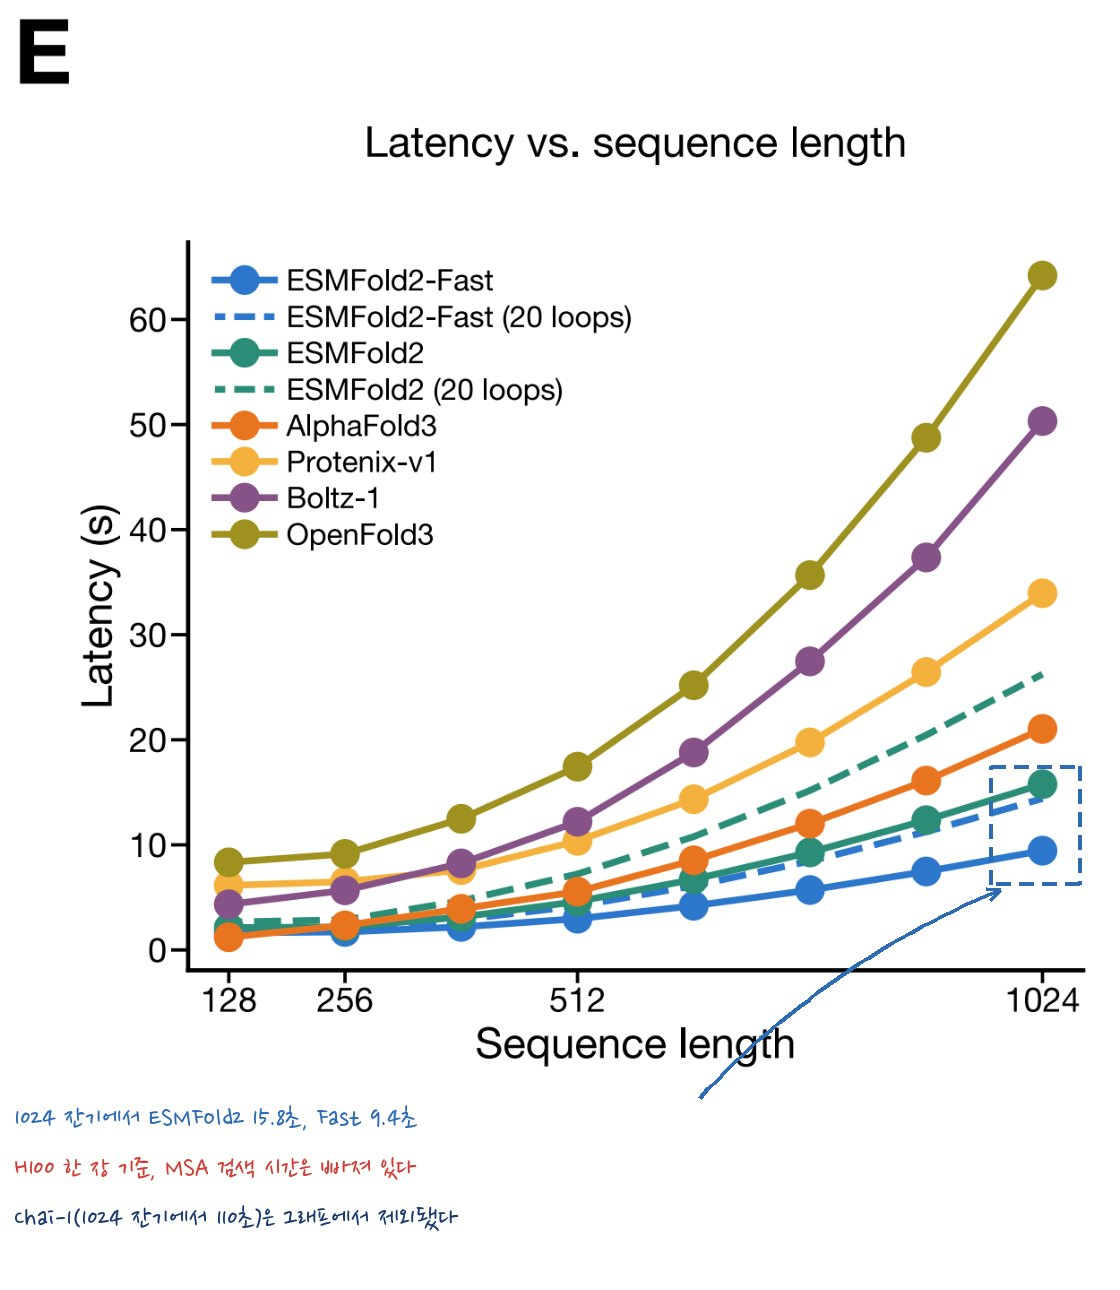
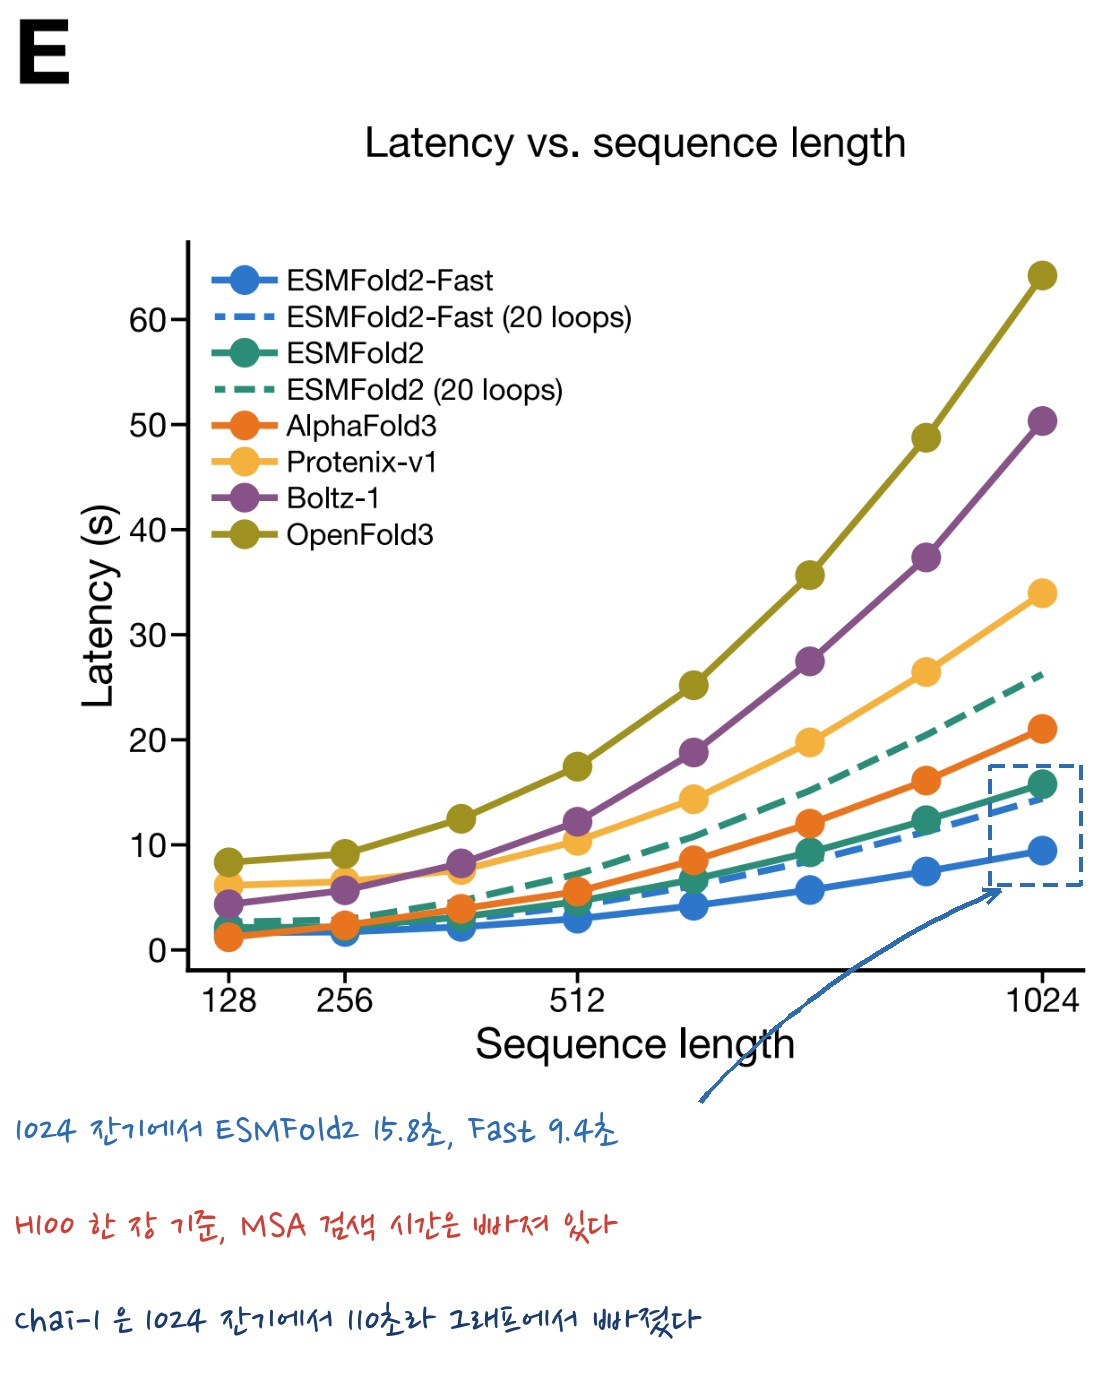
Make the handwritten memos readable on the composite figures
Four figures were annotated on a large composite canvas and then saved at a
smaller width, so the handwriting shrank twice -- once on save, once again
when the page scaled the figure down. On screen the memos ended up at 12-17 px
while the rest of the post sits at 20-23 px.

Measured and redrawn so every memo lands near 26 px at the width the page
actually shows, with the files kept at roughly twice the display width so they
stay sharp on a HiDPI screen:

- esmc-esmfold2 Fig 2A: 12.7 -> 26.1 px (file now 2400 px wide)
- esmc-esmfold2 Fig 1B/1C: 14.1 -> 26.0 px (file 2240 px)
- esmc-esmfold2 Fig 2E: 17.2 -> 24.0 px
- esmc-sae Fig 4E (CAMK1 + families): 11.7 -> 26.1 px (file 2240 px)

Also on Fig 2A: the middle dot in "pLDDT · PAE" was dropped by the handwriting
font and left a gap, so that note is reworded.

Claude-Session: https://claude.ai/code/session_01WeuVKTz2XfxiKwtoJS4U2K

diff --git a/content/posts/_drafts/esmc-esmfold2/tools/annot_big.py b/content/posts/_drafts/esmc-esmfold2/tools/annot_big.py
@@ -1,0 +1,95 @@
+"""Redraw the memos on Fig 1B/1C, 2A and 2E at a size that survives downscaling.
+
+Rule used here: the handwriting should land at about 26 px once the page
+displays the figure, and the file should be roughly twice the display width so
+it stays sharp on a HiDPI screen.
+"""
+import sys
+sys.path.insert(0, "/tmp/gen")
+from ink import *
+
+S = "/tmp/pdf2/"
+P = "/home/claude/eden-repo/content/posts/2026-11-12-esmc-esmfold2/imgs/"
+
+
+def room(im, bottom):
+    c = Image.new("RGB", (im.width, im.height + bottom), "white")
+    c.paste(im, (0, 0))
+    return c
+
+
+# ================================================================ Fig 2A
+# canvas 3008 wide, saved at 2400, shown at 1120 -> memo 70 px here = 26 px on screen
+im = load(S + "f2a_stitched.png")
+H0 = im.height
+im = room(im, 560)
+
+box(im, 1, (10, 230, 360, 480), pad=8, fill=True)
+box(im, 2, (420, 230, 730, 540), pad=8, fill=True)
+box(im, 3, (1745, 285, 1995, 455), pad=8, fill=True)
+box(im, 3, (1180, 120, 2160, 180), pad=5, dash=True)
+box(im, 4, (2460, 95, 2865, 290), pad=8, fill=True)
+
+marker(im, 1, (34, 200), r=34)
+marker(im, 2, (440, 200), r=34)
+marker(im, 3, (1726, 250), r=34)
+marker(im, 4, (2484, 62), r=34)
+
+M = 70
+marker(im, 1, (56, H0 + 86), r=40)
+memo(im, "얼려둔 ESMC 6B, 80층 x 2560", (130, H0 + 40), size=M, col=MK[1])
+
+marker(im, 3, (1586, H0 + 86), r=40)
+memo(im, "루프: 학습 Poisson(3), 추론 10~64회\n수축 사상이라 폭발하지 않는다", (1660, H0 + 40), size=M, col=MK[3])
+
+marker(im, 2, (56, H0 + 280), r=40)
+memo(im, "81개 층 표현을 softmax 가중합\n-> 256차 pair 표현 (ESMFold 방식)", (130, H0 + 234), size=M, col=MK[2])
+
+marker(im, 4, (1586, H0 + 280), r=40)
+memo(im, "확산 68스텝으로 원자 좌표까지", (1660, H0 + 234), size=M, col=MK[4])
+
+memo(im, "코드 기본값은 24층 / 20루프이고, 신뢰도 헤드(pLDDT, PAE) 4층은 이 그림에 아예 없다",
+     (130, H0 + 440), size=64, col=RED)
+
+arrow(im, (180, H0 + 30), (200, 500), col=MK[1], w=6, head=22)
+arrow(im, (1800, H0 + 30), (1880, 475), col=MK[3], w=6, head=22)
+save(im, P + "fig2a_annot.jpg", maxw=2400, q=90)
+
+# ================================================================ Fig 1B + 1C
+b = load(S + "f1b.png"); c = load(S + "f1c.png")
+h = min(b.height, c.height)
+b = b.crop((0, 0, b.width, h)); c = c.crop((0, 0, c.width, h))
+gap = 50
+W = b.width + gap + c.width            # 2458
+im = Image.new("RGB", (W, h + 330), "white")
+im.paste(b, (0, 0)); im.paste(c, (b.width + gap, 0))
+ox = b.width + gap
+H0 = h
+
+box(im, 3, (330, 540, 700, 800), pad=7, dash=True)
+d = ImageDraw.Draw(im, "RGBA")
+d.ellipse([ox + 925, 145, ox + 1025, 245], outline=MK[5], width=7)
+memo_w(im, "0.72", (ox + 955, 60), size=58, col=MK[5])
+box(im, 2, (ox + 800, 420, ox + 1180, 485), pad=6, dash=True)
+memo_w(im, "0.59 에서 평평", (ox + 800, 510), size=54, col=MK[2])
+
+M = 57
+memo(im, "작은 모델 다섯 개로 그은 곡선 위에서 300M / 600M / 6B 를 골랐다", (20, H0 + 30), size=M, col=MK[3])
+memo(im, "6B 실측은 외삽과 0.007 차이뿐이다 (P@L-LR = 0.115 log10 FLOPs - 1.98, R2 = 0.99)",
+     (20, H0 + 130), size=M, col=INK)
+memo(im, "ESM2 는 15B 에서 이미 누웠고(0.59), ESMC 는 6B 에서도 오른다(0.72)",
+     (20, H0 + 230), size=M, col=MK[1])
+arrow(im, (420, H0 + 22), (470, 812), col=MK[3], w=6, head=20)
+save(im, P + "fig1bc_annot.jpg", maxw=2240, q=90)
+
+# ================================================================ Fig 2E
+im = load(S + "f2e.png")               # 1120 wide, shown at 643
+H0 = im.height
+im = room(im, 300)
+box(im, 4, (995, 770, 1075, 880), pad=5, dash=True)
+M = 45
+memo(im, "1024 잔기에서 ESMFold2 15.8초, Fast 9.4초", (14, H0 + 20), size=M, col=MK[4])
+memo(im, "H100 한 장 기준, MSA 검색 시간은 빠져 있다", (14, H0 + 115), size=M, col=RED)
+memo(im, "Chai-1 은 1024 잔기에서 110초라 그래프에서 빠졌다", (14, H0 + 210), size=M, col=INK)
+arrow(im, (700, H0 + 12), (1000, 890), col=MK[4], w=5, head=18, curve=-40)
+save(im, P + "fig2e_annot.jpg", maxw=1120, q=90)

diff --git a/content/posts/_drafts/esmc-sae/tools/fix_sae_e2.py b/content/posts/_drafts/esmc-sae/tools/fix_sae_e2.py
@@ -1,0 +1,41 @@
+import sys
+sys.path.insert(0, "/tmp/gen")
+from ink import *
+
+S = "/tmp/pdfcaps/"
+P = "/home/claude/eden-repo/content/posts/2026-11-12-esmc-sae/imgs/"
+
+camk1 = load(S + "E_camk1.png")
+tk = load(S + "E_tk_agc.png")
+tkl = load(S + "E_tkl_ck1.png")
+
+
+def fit(img, h):
+    return img.resize((round(img.width * h / img.height), h), Image.LANCZOS)
+
+
+wr = 1280
+tk = tk.resize((wr, round(tk.height * wr / tk.width)), Image.LANCZOS)
+tkl = tkl.resize((wr, round(tkl.height * wr / tkl.width)), Image.LANCZOS)
+right = Image.new("RGB", (wr, tk.height + 24 + tkl.height), "white")
+right.paste(tk, (0, 0)); right.paste(tkl, (0, tk.height + 24))
+
+h = max(camk1.height, right.height)
+camk1 = fit(camk1, h)
+right = fit(right, h)
+gap = 50
+W = camk1.width + gap + right.width          # ~3258
+im = Image.new("RGB", (W, h + 320), "white")
+im.paste(camk1, (0, 0))
+im.paste(right, (camk1.width + gap, 0))
+
+marker(im, 5, (camk1.width + gap + 40, 150), r=44)
+
+M = 76
+memo(im, "촉매부는 일곱 패밀리가 공유하고, 갈리는 곳은 조절부다. CK1a 만 촉매부에서도 다른 특징을 켠다",
+     (24, h + 40), size=M, col=MK[5])
+memo(im, "왼쪽 CAMK1 에서 잔기당 특징 밀도는 알파C 나선 22.4, P-loop 21.3, HRD 20.0, DFG 19.7 순이다",
+     (24, h + 165), size=M, col=INK)
+save(im, P + "fig4e2_annot.jpg", maxw=2240, q=90)
+print("canvas", W, "-> memo on screen",
+      round(M * (2240 / W) * (1120 / 2240), 1), "px")
